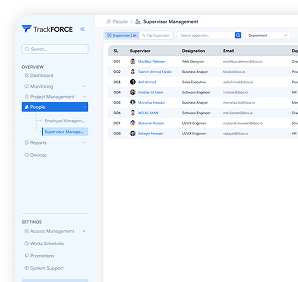
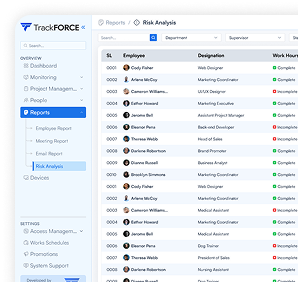
Add new images and update imports in OurFeatures component; enhance visual consistency and responsiveness across the application.

diff --git a/src/features/home/our_features/OurFeatures.tsx b/src/features/home/our_features/OurFeatures.tsx
@@ -1,13 +1,12 @@
 import Image from "next/image";
 import bar from "../../../../public/bar.png";
 import securityMonitoring from "../../../../public/home/securityMonitoring.png";
+import totalHr from "../../../../public/home/totalHour.png";
 import workEfficiency from "../../../../public/home/workEfficiency.png";
-import totalHr from "../../../../public/totalHr.png";
 // Hover (cross-fade) images
 import productivity from "../../../../public/bar.png";
-import accountability from "../../../../public/totalHr.png";
+import accountability from "../../../../public/home/totalHour.png";
 import efficiency from "../../../../public/home/workEfficiency.png";
-import security from "../../../../public/home/secureMonitoring2.png";
 import './ourFeatures.css';
 const OurFeatures = () => {
     return (
@@ -58,13 +57,13 @@ const OurFeatures = () => {
                                 src={bar}
                                 alt="Productivity tracking"
                                 quality={90}
-                                className="absolute -bottom-16 right-7 transition-[opacity,translate] duration-[850ms] ease-[cubic-bezier(0.22,1,0.36,1)] group-hover:opacity-0 group-hover:translate-y-3"
+                                className="absolute -bottom-22 right-7 transition-[opacity,translate] duration-[850ms] ease-[cubic-bezier(0.22,1,0.36,1)] group-hover:opacity-0 group-hover:translate-y-3"
                             />
                             <Image
                                 src={productivity}
                                 alt="Productivity tracking detailed"
                                 quality={90}
-                                className="absolute -bottom-10 right-7 opacity-0 translate-y-4 transition-[opacity,translate] duration-[850ms] ease-[cubic-bezier(0.22,1,0.36,1)] group-hover:opacity-100 group-hover:translate-y-0"
+                                className="absolute -bottom-18 right-7 opacity-0 translate-y-4 transition-[opacity,translate] duration-[850ms] ease-[cubic-bezier(0.22,1,0.36,1)] group-hover:opacity-100 group-hover:translate-y-0"
                             />
 
                         </div>
@@ -97,13 +96,13 @@ const OurFeatures = () => {
                                 src={totalHr}
                                 alt="Accountability and transparency"
                                 quality={90}
-                                className="absolute -bottom-14 lg:-bottom-10 -right-10 transition-[opacity,translate] duration-[850ms] ease-[cubic-bezier(0.22,1,0.36,1)] group-hover:opacity-0 group-hover:translate-y-3"
+                                className="absolute -bottom-16 lg:-bottom-16 -right-10 transition-[opacity,translate] duration-[850ms] ease-[cubic-bezier(0.22,1,0.36,1)] group-hover:opacity-0 group-hover:translate-y-3"
                             />
                             <Image
                                 src={accountability}
                                 alt="Accountability and transparency detailed"
                                 quality={90}
-                                className="absolute -bottom-12 lg:-bottom-5 -right-10 opacity-0 translate-y-4 transition-[opacity,translate] duration-[850ms] ease-[cubic-bezier(0.22,1,0.36,1)] group-hover:opacity-100 group-hover:translate-y-0"
+                                className="absolute -bottom-12 lg:-bottom-12 -right-10 opacity-0 translate-y-4 transition-[opacity,translate] duration-[850ms] ease-[cubic-bezier(0.22,1,0.36,1)] group-hover:opacity-100 group-hover:translate-y-0"
                             />
 
                         </div>
@@ -140,13 +139,13 @@ const OurFeatures = () => {
                                 src={workEfficiency}
                                 alt="Workflow efficiency"
                                 quality={90}
-                                className="absolute -bottom-10 lg:-bottom-14 -right-2 transition-[opacity,translate] duration-[850ms] ease-[cubic-bezier(0.22,1,0.36,1)] group-hover:opacity-0 group-hover:translate-y-3"
+                                className="absolute -bottom-12 lg:-bottom-40 -right-2 transition-[opacity,translate] duration-[850ms] ease-[cubic-bezier(0.22,1,0.36,1)] group-hover:opacity-0 group-hover:translate-y-3"
                             />
                             <Image
                                 src={efficiency}
                                 alt="Workflow efficiency detailed"
                                 quality={90}
-                                className="absolute -bottom-3 lg:-bottom-7 -right-2 opacity-0 translate-y-4 transition-[opacity,translate] duration-[850ms] ease-[cubic-bezier(0.22,1,0.36,1)] group-hover:opacity-100 group-hover:translate-y-0"
+                                className="absolute -bottom-3 lg:-bottom-36 -right-2 opacity-0 translate-y-4 transition-[opacity,translate] duration-[850ms] ease-[cubic-bezier(0.22,1,0.36,1)] group-hover:opacity-100 group-hover:translate-y-0"
                             />
 
                         </div>
@@ -166,10 +165,10 @@ const OurFeatures = () => {
                                 src={securityMonitoring}
                                 alt="Security monitoring"
                                 quality={90}
-                                className="rounded-ss-2xl scale-y-110 absolute -bottom-26 lg:-bottom-14 -right-10 transition-[opacity,translate] duration-[850ms] ease-[cubic-bezier(0.22,1,0.36,1)] group-hover:opacity-0 group-hover:translate-y-3"
+                                className="rounded-ss-2xl scale-y-110 absolute -bottom-26 lg:-bottom-14 -right-0 transition-[opacity,translate] duration-[850ms] ease-[cubic-bezier(0.22,1,0.36,1)] group-hover:opacity-0 group-hover:translate-y-3"
                             />
                             <Image
-                                src={security}
+                                src={securityMonitoring}
                                 alt="Security monitoring detailed"
                                 quality={90}
                                 className="rounded-ss-2xl scale-y-110 absolute -bottom-26 lg:-bottom-12 -right-0 opacity-0 translate-y-4 transition-[opacity,translate] duration-[850ms] ease-[cubic-bezier(0.22,1,0.36,1)] group-hover:opacity-100 group-hover:translate-y-0"
